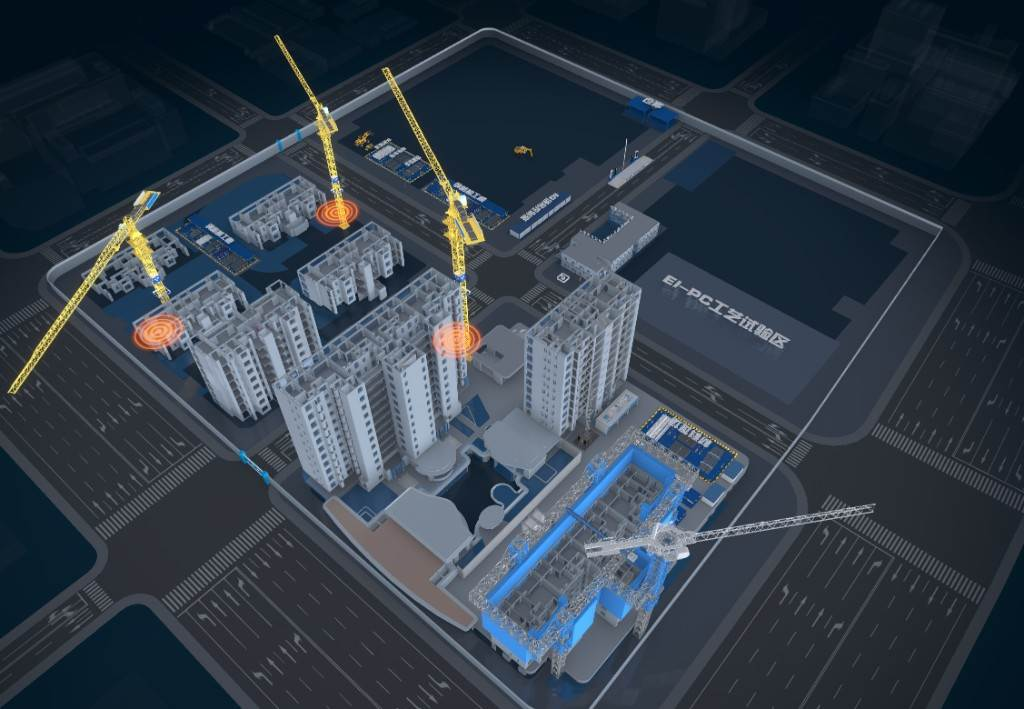
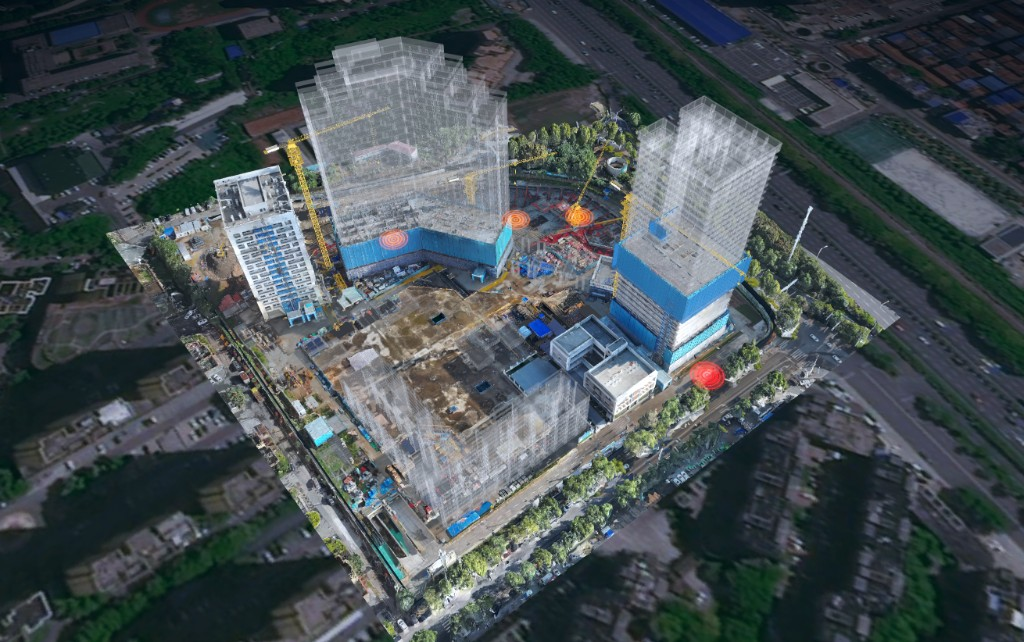
Replace the homepage aerial and the fullscreen 2D map.

diff --git a/index.html b/index.html
@@ -11,8 +11,8 @@
   <meta name="apple-mobile-web-app-title" content="向阳村项目智能建造管理平台" />
   <title>向阳村项目智能建造管理平台</title>
   <link rel="manifest" href="manifest.json" />
-  <link rel="preload" as="image" href="img/site-map.jpg?v=20261029d" />
-  <link rel="stylesheet" href="css/app.css?v=20261029za137" />
+  <link rel="preload" as="image" href="img/site-map.jpg?v=20261110map" />
+  <link rel="stylesheet" href="css/app.css?v=20261029za139" />
   <script>
     if ("serviceWorker" in navigator) {
       window.addEventListener("load", function () {
@@ -29,7 +29,7 @@
         <div class="map-land" id="mapLand" aria-hidden="true" hidden>
           <div class="map-land-stage">
             <div class="map-land-fit">
-              <img src="img/site-map.jpg?v=20261029d" alt="工地数字地图" />
+              <img src="img/site-map.jpg?v=20261110map" alt="工地数字地图" />
               <div class="alarm-pins" id="landAlarmPins"></div>
             </div>
           </div>
@@ -331,6 +331,6 @@
         </div>
     </div>
   </div>
-  <script src="js/app.js?v=20261029za157"></script>
+  <script src="js/app.js?v=20261029za159"></script>
 </body>
 </html>

diff --git a/css/app.css b/css/app.css
@@ -302,7 +302,7 @@ button, input, textarea { font-family: inherit; color: inherit; }
   top: 0;
   height: calc(42% + 20px);
   background-color: rgb(5, 10, 21);
-  background-image: url("../img/site-map.jpg?v=20261029d");
+  background-image: url("../img/site-map.jpg?v=20261110map");
   background-repeat: no-repeat;
   background-size: cover;
   background-position: center center;
@@ -670,7 +670,7 @@ button, input, textarea { font-family: inherit; color: inherit; }
 .map-land.is-flat .map-land-fit {
   width: auto;
   height: 100%;
-  aspect-ratio: 1024 / 747;
+  aspect-ratio: 1024 / 760;
   max-width: 100%;
 }
 

diff --git a/sw.js b/sw.js
@@ -1,12 +1,12 @@
-const VERSION = "20261110d";
+const VERSION = "20261110f";
 const CACHE = "site-map-" + VERSION;
 
 const PRECACHE = [
   "./index.html",
-  "./css/app.css?v=20261029za137",
-  "./js/app.js?v=20261029za157",
-  "./img/site-map.jpg?v=20261029d",
-  "./img/site-flat.jpg?v=20261029d",
+  "./css/app.css?v=20261029za139",
+  "./js/app.js?v=20261029za159",
+  "./img/site-map.jpg?v=20261110map",
+  "./img/site-flat.jpg?v=20261110flat",
   "./img/alarm-trash.jpg?v=20261029d",
   "./img/alarm-cable.jpg?v=20261029d",
   "./img/alarm-net.jpg?v=20261029d",

diff --git a/js/app.js b/js/app.js
@@ -4186,7 +4186,7 @@
     const btn = document.getElementById("btnMapFlat");
     mapLand.classList.toggle("is-flat", on);
     if (img) {
-      img.src = on ? "img/site-flat.jpg?v=20261029d" : "img/site-map.jpg?v=20261029d";
+      img.src = on ? "img/site-flat.jpg?v=20261110flat" : "img/site-map.jpg?v=20261110map";
       img.alt = on ? "工地二维地图" : "工地数字地图";
     }
     if (btn) {
